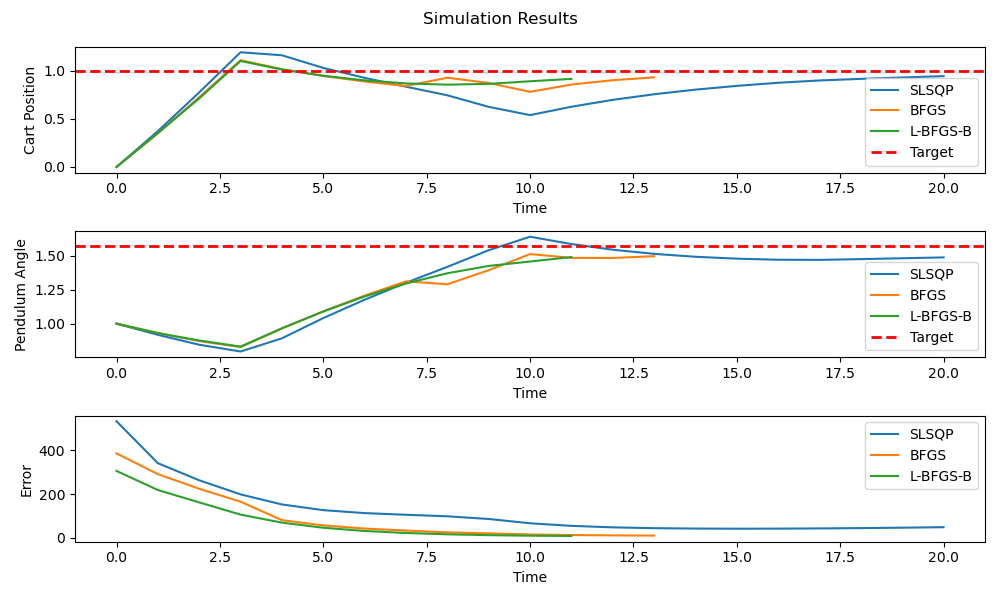
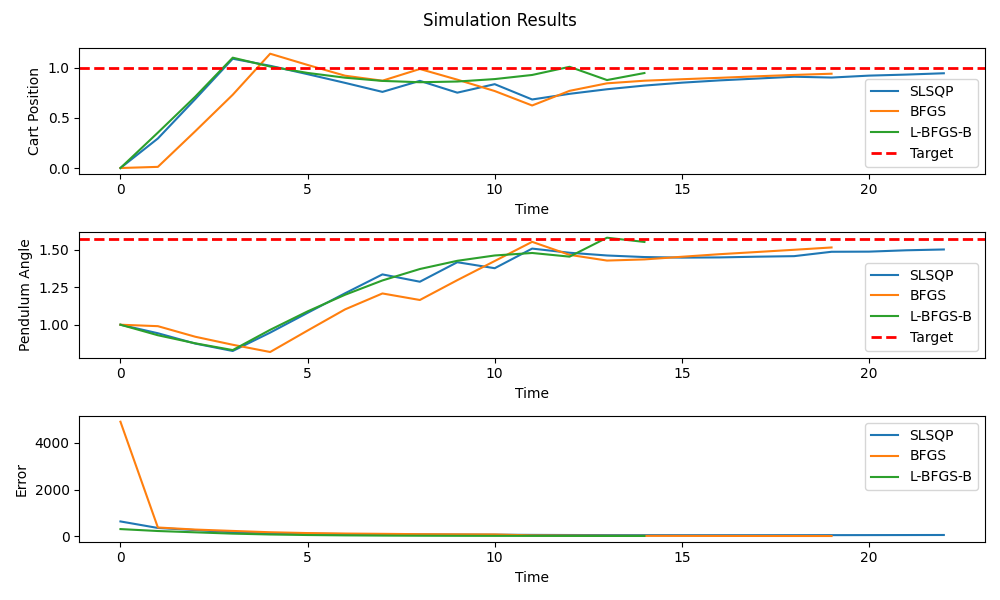
Adding disturbance

diff --git a/experiment2.py b/experiment2.py
@@ -9,14 +9,30 @@ from inverted_pendulum_model import InvertedPendulum
 from inverted_pendulum_viz import InvertedPendulumViz
 
 
-def experiment(solver_type, args):
+def apply_wind_disturbance(self, wind_force):
+    # Apply wind disturbance to the system
+    # Modify the state based on the effects of the wind force
+
+    # Extract state variables
+    x1 = self.state.theta
+
+
+    # Constants
+    g = 9.81
+
+    # Update state based on the effects of the wind force
+    self.state.v += (-(self.M + self.m) * g * np.sin(x1) + wind_force) / (self.M + self.m)
+
+disturbances_events = {'Wind': [], 'Mass': []}
+def experiment2(solver_type, args):
     sim_iter = 0
     state_logs = []
     error_logs = []
-        
+
     # Set simulation parameters
     dt = 0.05
-    total_time = 10.0
+    total_time = 10
+
     num_steps = int(total_time / dt)
 
     #  MPC Parameters
@@ -39,36 +55,56 @@ def experiment(solver_type, args):
     # Initialize the model and MPC optimizer
     pendulum_system = InvertedPendulum(m=0.5, M=5.0, L=1)
     # pendulum_system.uncertainty_gaussian_std = 0.02
-    
-    # Instantiate the model and visualization classes    
+
+    # Instantiate the model and visualization classes
     viz = InvertedPendulumViz(x_start=-5, x_end=5, pendulum_len=1)
-    
+
     # Initial state
     pendulum_system.state = pendulum_system.State(cart_position=0.0, pendulum_angle=1)
     init_state = pendulum_system.state
-        
+
     # Initial guess for the control inputs
     initial_guess = np.zeros(P)
-    
+
     # define args_dict
     args_dict = {'goal_theta': goal_theta,
-                 'goal_x': goal_x, 
-                 'init_state': init_state, 
-                 'P': P, 
-                 'eth_W': eth_W, 'ex_W': ex_W, 'f_rate_W': f_rate_W, 
+                 'goal_x': goal_x,
+                 'init_state': init_state,
+                 'P': P,
+                 'eth_W': eth_W, 'ex_W': ex_W, 'f_rate_W': f_rate_W,
                  'dt': dt,
                  'm': pendulum_system.m, 'M': pendulum_system.M, 'L': pendulum_system.L}
-
     # MPC Control Loop
+    original_mass = pendulum_system.m
+    disturbance_type = None
+
     for i in range(num_steps):
         sim_iter = i
         args_dict['init_state'] = init_state
         # Run the optimizer
         st = time.time()
+
+
+
+        # Run the simulation with the perturbed mass and observe the impact on performance metrics
+
         result = minimize(objective, initial_guess, args=(args_dict),
-                          method=solver_type, 
+                          method=solver_type,
                           options={'disp': False})
-        
+
+        if i == 5:
+            wind_force = 0.2
+            apply_wind_disturbance(pendulum_system, wind_force)
+            disturbance_type = "Wind"
+            disturbances_events['Wind'].append(('Wind', i, 0, i, 1))  # Tuple: (Type, Start time, Position on plot)
+        if i == 10:
+            # Uncertainty modeling: random perturbation to mass
+            uncertainty_factor = np.random.uniform(-0.05, 0.05)  # Example uncertainty range
+            perturbed_mass = original_mass * (1 + uncertainty_factor)
+            pendulum_system.m = perturbed_mass
+            disturbance_type = "Mass"
+            disturbances_events['Mass'].append(('Mass', i, 0, i, 1))  # Tuple: (Type, Start time, Position on plot)
+
         state_logs.append(init_state)
         error_logs.append(result.fun)
 
@@ -77,35 +113,39 @@ def experiment(solver_type, args):
         optimal_controls = result.x
 
         # Apply the first control input to the system
-        pendulum_system.inputs.force = optimal_controls[0]        
+        pendulum_system.inputs.force = optimal_controls[0]
         pendulum_system.step(dt)
-        
+
         # Update the initial state
         init_state = pendulum_system.state
 
-        if np.abs(init_state.x - goal_x)/goal_x < 0.05 and np.abs(init_state.theta - goal_theta)/ goal_theta < 0.05:
+        if np.abs(init_state.x - goal_x) / goal_x < 0.05 and np.abs(init_state.theta - goal_theta) / goal_theta < 0.05:
             break
-        
+
         # Update the initial guess
         next_init_guess = np.zeros_like(initial_guess)
         next_init_guess[:-1] = optimal_controls[1:]
         initial_guess = next_init_guess
 
+        # Restore the original mass for the next iteration
+        pendulum_system.m = original_mass
+
         # Visualize the current state using the visualization class
         if args.render:
-            canvas = viz.step([pendulum_system.state.x, pendulum_system.state.v, pendulum_system.state.theta, pendulum_system.state.theta_dot], t=i * dt)
+            canvas = viz.step([pendulum_system.state.x, pendulum_system.state.v, pendulum_system.state.theta,
+                               pendulum_system.state.theta_dot], t=i * dt)
             # Display the canvas using cv2
             cv2.imshow('Inverted Pendulum', canvas)
-        
+
         print(f'Sim-iter {i + 1} / {num_steps}: x= {init_state.x:.2f} / {goal_x:.2f}, v={init_state.v:.2f}, \
-theta={init_state.theta:.2f} / {goal_theta:.2f}, input= {pendulum_system.inputs.force:.2f}')
+    theta={init_state.theta:.2f} / {goal_theta:.2f}, input= {pendulum_system.inputs.force:.2f}')
 
         # Break the loop if 'q' key is pressed
-        if cv2.waitKey(int(dt*1000)) & 0xFF == ord('q'):
+        if cv2.waitKey(int(dt * 1000)) & 0xFF == ord('q'):
             break
-    
+
     cv2.destroyAllWindows()
-    
+
     if args.plot:
         cart_poss = [s.x for s in state_logs]
         pendulum_angles = [s.theta for s in state_logs]
@@ -145,31 +185,44 @@ theta={init_state.theta:.2f} / {goal_theta:.2f}, input= {pendulum_system.inputs.
 
     return (state_logs, error_logs, goal_x, goal_theta, sim_iter)
 
+
 def plot_results(results, title):
-    fig, axs = plt.subplots(3, 1, figsize=(10, 6))
+    fig, axs = plt.subplots(3, 1, figsize=(10, 10))
     fig.suptitle(title)
 
     for solver_type in results:
         state_logs, error_logs, goal_x, goal_theta, sim_iter = results[solver_type]
-        
+
         cart_poss = [s.x for s in state_logs]
         pendulum_angles = [s.theta for s in state_logs]
         idx = np.arange(len(cart_poss))
-
         # Plot cart position
         axs[0].plot(idx, cart_poss, label=solver_type)
         axs[0].set_xlabel('Time')
-        axs[0].set_ylabel('Cart Position')
+        axs[0].set_ylabel('Cart Position after perturbed mass')
 
         # Plot pendulum angle
         axs[1].plot(idx, pendulum_angles, label=solver_type)
         axs[1].set_xlabel('Time')
-        axs[1].set_ylabel('Pendulum Angle')
+        axs[1].set_ylabel('Pendulum Angle after perturbed mass')
 
         # Objective
         axs[2].plot(idx, error_logs, label=solver_type)
         axs[2].set_xlabel('Time')
-        axs[2].set_ylabel('Error')
+        axs[2].set_ylabel('Error after perturbed mass')
+        # Annotate disturbance events if provided
+        for event_type, event_list in disturbances_events.items():
+            for disturbance_event in event_list:
+                if disturbance_event[1] < len(cart_poss):
+                    if disturbance_event[0] == 'Wind':
+                        c = 'red'
+                        marker = 'o'
+                    else:
+                        c = 'blue'
+                        marker = 'x'   # Use 'o' for 'Wind' and 'x' for other type
+                    axs[0].plot(disturbance_event[1], cart_poss[disturbance_event[1]], c='red', marker=marker)
+                    axs[1].plot(disturbance_event[1], pendulum_angles[disturbance_event[1]], c='red', marker=marker)
+                    axs[2].plot(disturbance_event[1], error_logs[disturbance_event[1]], c='red', marker=marker)
 
     axs[0].axhline(y=goal_x, color='red', linestyle='--', label='Target', linewidth=2)
     axs[1].axhline(y=goal_theta, color='red', linestyle='--', label='Target', linewidth=2)
@@ -185,6 +238,7 @@ def plot_results(results, title):
     # plt.show()
     plt.savefig(title + '.png')
 
+
 if __name__ == "__main__":
     parser = argparse.ArgumentParser()
     parser.add_argument('-r', '--render', action='store_true')
@@ -195,8 +249,6 @@ if __name__ == "__main__":
 
     results = {}
     for solver in optimization_methods:
-        result = experiment(solver, args)
+        result = experiment2(solver, args)
         results[solver] = result
-    plot_results(results, 'Simulation Results')
-
-        
+    plot_results(results, 'Simulation Results after perturbed mass and wind only once')

diff --git a/controlled_cart_and_pendulum.py b/controlled_cart_and_pendulum.py
@@ -144,6 +144,10 @@ def main():
             init_state = pendulum_system.state
             args_dict['init_state'] = init_state
 
+            if np.abs(init_state.x - goal_x) / goal_x < 0.05 and np.abs(
+                    init_state.theta - goal_theta) / goal_theta < 0.05:
+                break
+
             # Update the initial guess
             next_init_guess = np.zeros_like(initial_guess)
             next_init_guess[:-1] = optimal_controls[1:]
@@ -168,10 +172,11 @@ def main():
     for method in optimization_methods:
         # convergence_info_by_method[method]['num_iterations'][:20] = array_of_methods[i]
         num_iterations = convergence_info_by_method[method]['num_iterations'][:30]
+        plt.figure(2)
         print(num_iterations)
         plt.plot(num_iterations, label=method)
 
-    plt.figure()
+    plt.figure(2)
     plt.xlabel('Time Step')
     plt.ylabel('Number of Iterations')
     plt.title('Number of Iterations Comparison of Optimization Methods')
